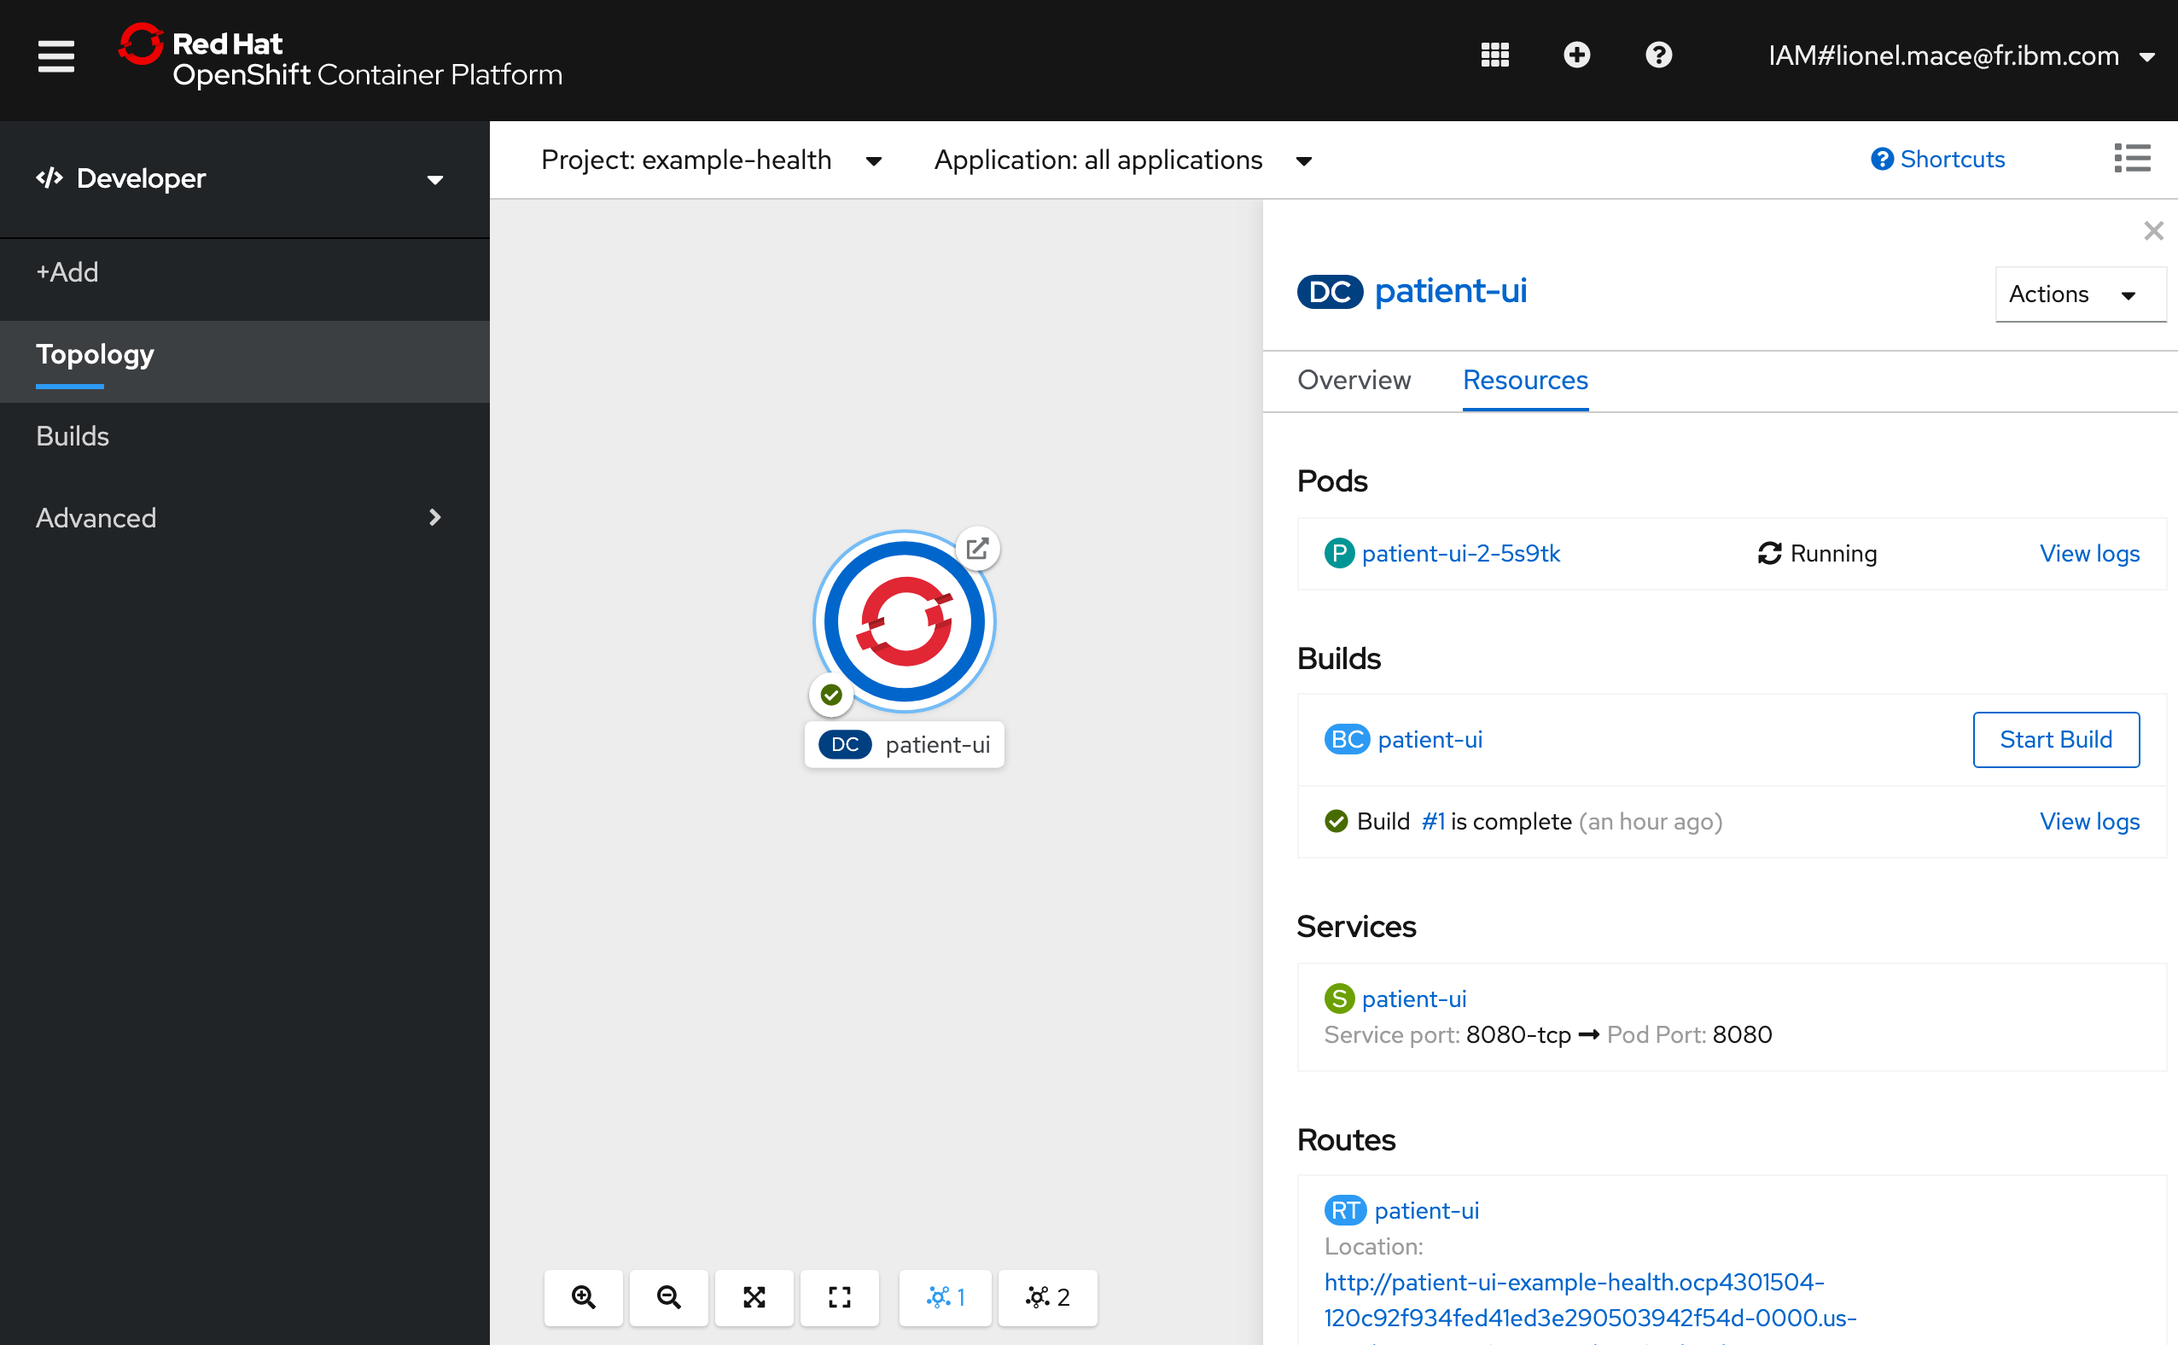
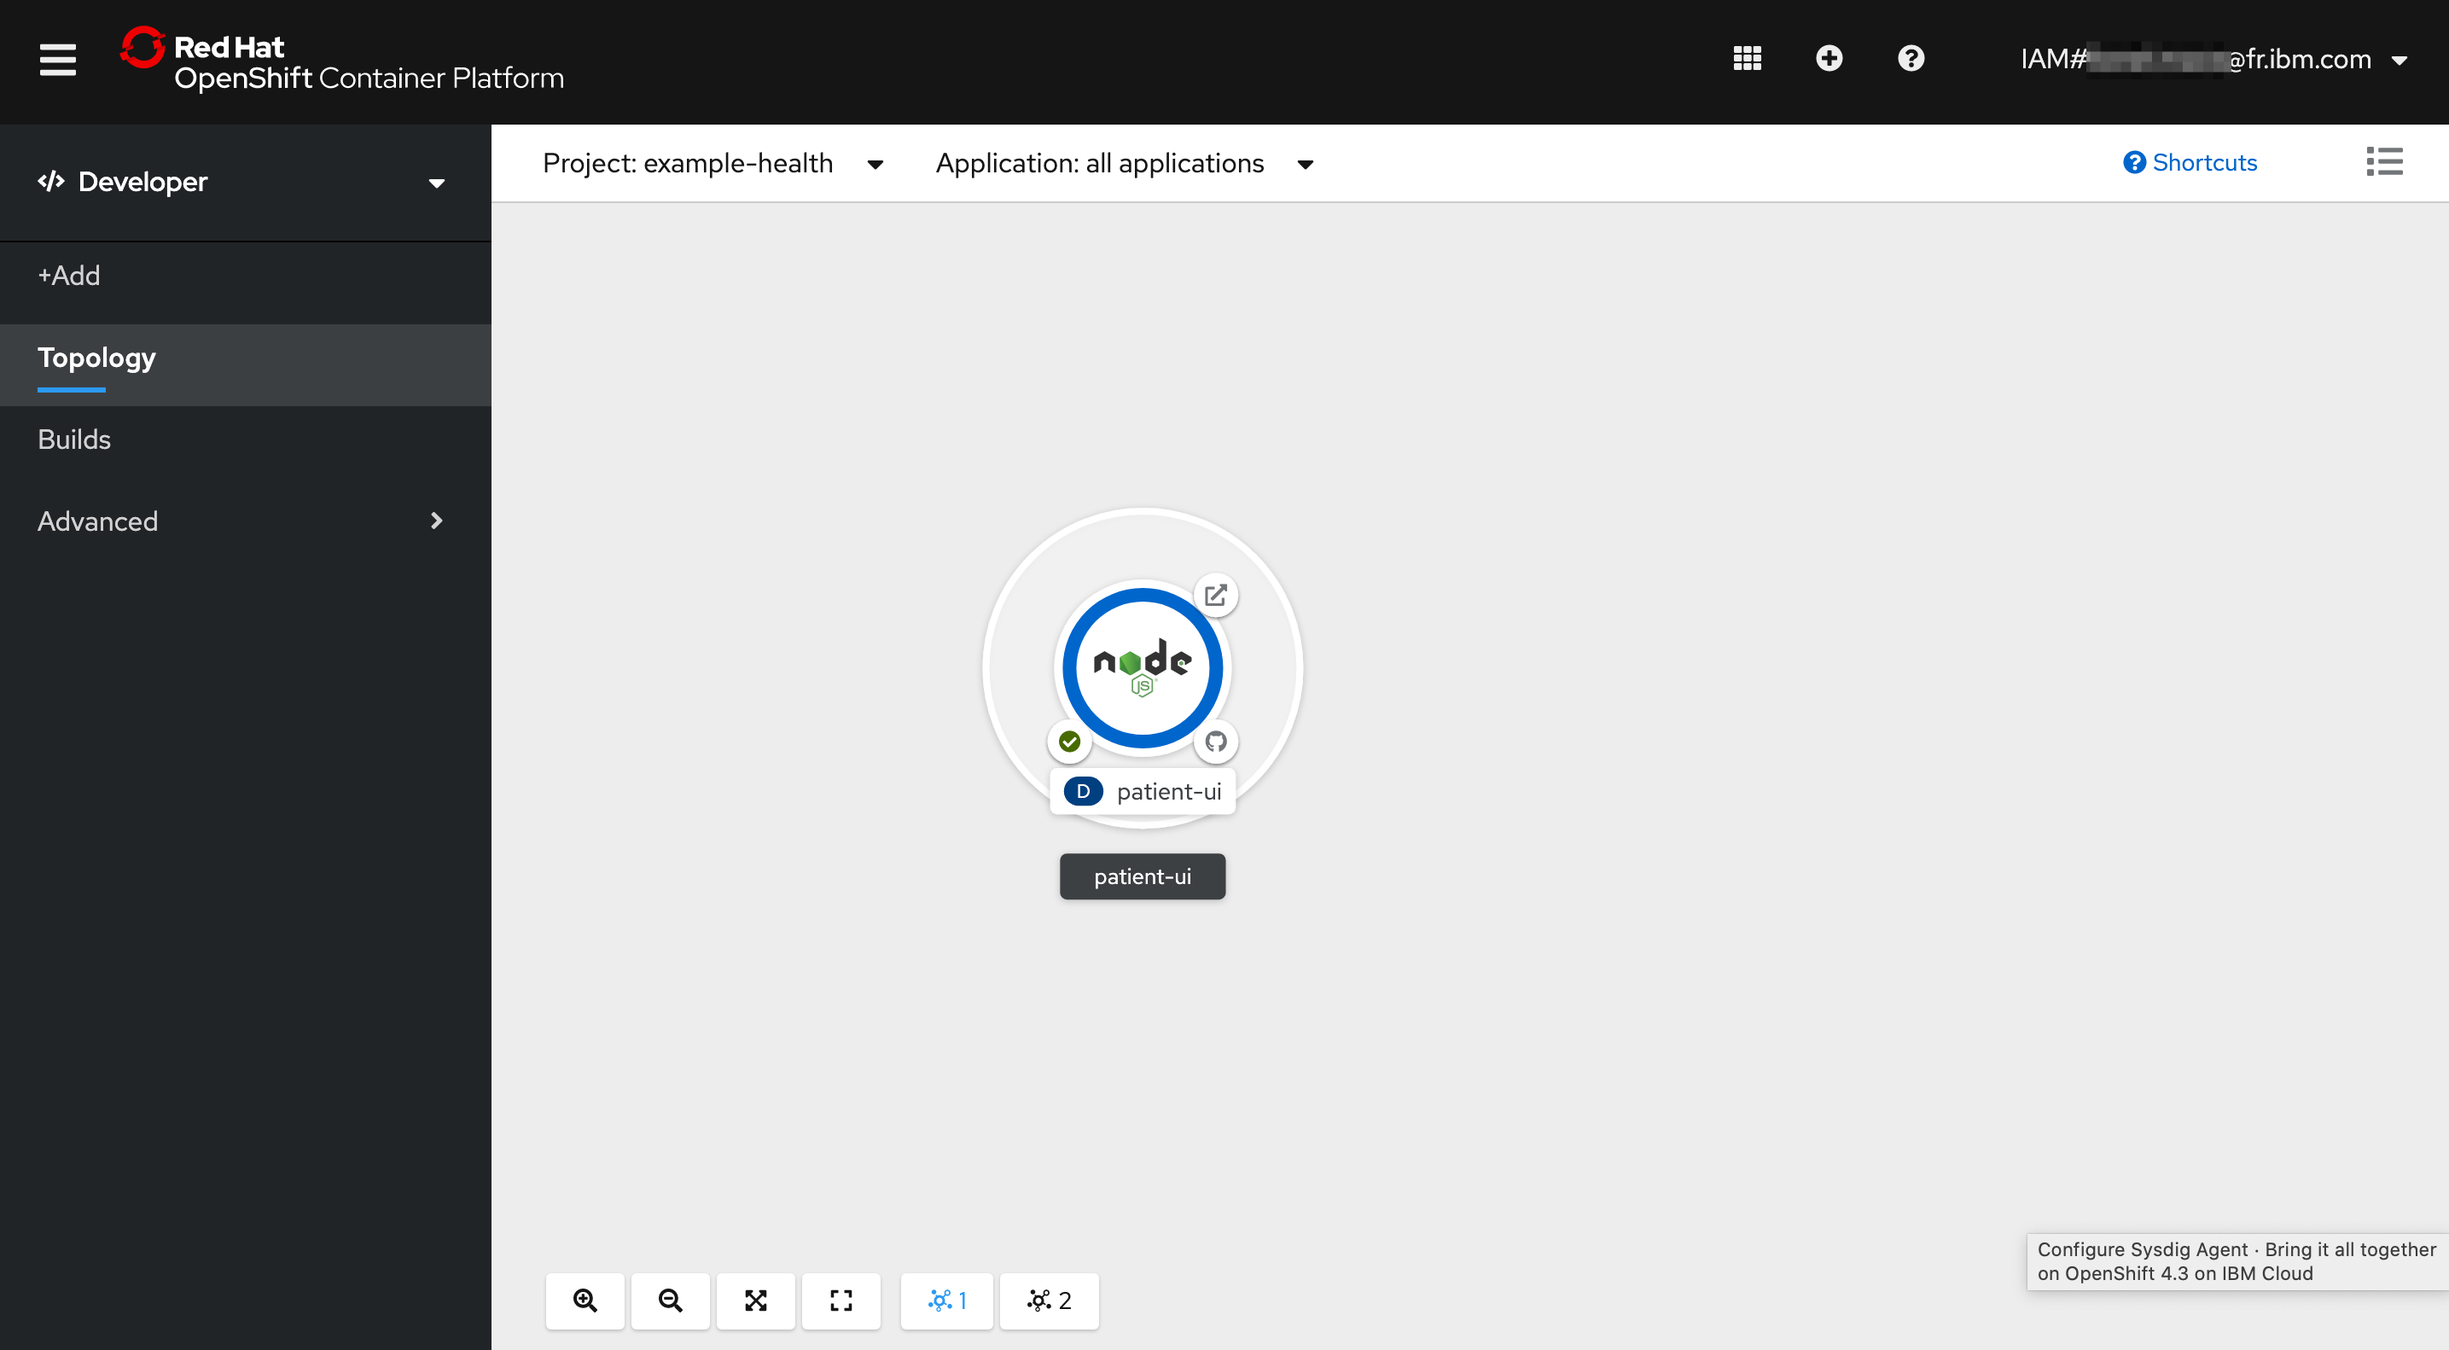
exercise 1 with ui

diff --git a/workshop/part1-learn_openshift/exercise-1.md b/workshop/part1-learn_openshift/exercise-1.md
@@ -1,118 +1,46 @@
-# Deploying an application
+# Exercise 1: Deploying an application
 
-## Deploy Example Health into OpenShift
+In this exercise, you'll deploy a simple Node.js Express application - "Example Health". Example Health is a simple UI for a patient health records system. We'll use this example to demonstrate key OpenShift features throughout this workshop. You can find the sample application GitHub repository here: [https://github.com/svennam92/node-s2i](https://github.com/svennam92/node-s2i)
 
-There's many ways to create a new application in OpenShift. If you're already a Kubernetes expert, you can stick with what you know and use YAML deployment files. However, OpenShift has greatly simplified the process of deploying apps into a cluster. 
+## Deploy Example Health
 
-Today, we'll demonstrate the "s2i" or "source to image" builder. This builder allows you to go from source code on GitHub to a running deployment.
+1. Launch the `OpenShift web console`.
 
-1. Create a new project **example-health**:
+    ![](../assets/ocp-console.png)
 
-   ```sh
-    oc new-project example-health
-   ```
+2. **Create** a project, you can title it whatever you like, we suggest "example-health."
 
-   Output:
+    ![](../assets/ocp-create-project.png)
 
-   ```
-    Now using project "example-health" on server "https://c100-e.containers.cloud.ibm.com:32545".
+3. Make sure your project is selected. You should see a view that looks like this:
 
-    You can add applications to this project with the 'new-app' command. For example, try:
+    ![](../assets/ocp-project-view.png)
 
-        oc new-app django-psql-example
+4. Click **From Git**.
 
-    to build a new example application in Python. Or use kubectl to deploy a simple Kubernetes application:
+5. Enter the repository `https://github.com/svennam92/node-s2i` in the Git Repo URL field.
 
-        kubectl create deployment hello-node --image=gcr.io/hello-minikube-zero-install/hello-node
-   ```
+    ![](../assets/ocp-configure-git.png)
 
-2. Next, deploy the application directly from GitHub into your cluster. This uses the OpenShift "s2i" or "source to image" strategy. Essentially, this build strategy combines a standard Node.js runtime \(a base image\) with your source code in GitHub. Our code needs a runtime to actually run -- the base image takes care of this. The base image exists on DockerHub, named `nodejs-10-centos7:latest`.
-   * Run the following command to build the Docker image. Note the `~` separator between the base image and source repository. The `--context-dir` flag is used to define the folder where the app exists:
+6. Note that the builder image automatically detected the language Node.js.
 
-     ```sh
-       oc new-app --name=patient-ui centos/nodejs-10-centos7~https://github.com/svennam92/node-s2i-openshift --context-dir='site'
-     ```
+    ![](../assets/ocp-build-image.png)
 
-     Output:
+7. Name your application such as `patient-ui`. Keep the default options and click **Create** at the bottom of the window to build and deploy the application.
 
-     ```
-       --> Found Docker image 4028fd4 (3 weeks old) from Docker Hub for "centos/nodejs-10-centos7"
+    ![](../assets/ocp-app-name.png)
 
-           Node.js 10 
-           ---------- 
-           Node.js 10 available as container is a base platform for building and running various Node.js 10 applications and frameworks. Node.js is a platform built on Chrome's JavaScript runtime for easily building fast, scalable network applications. Node.js uses an event-driven, non-blocking I/O model that makes it lightweight and efficient, perfect for data-intensive real-time applications that run across distributed devices.
+    Your application is being deployed.
 
-           Tags: builder, nodejs, nodejs10
+## View the Example Health
 
-           * An image stream tag will be created as "nodejs-10-centos7:latest" that will track the source image
-           * A source build using source code from https://github.com/IBM/node-s2i-openshift will be created
-           * The resulting image will be pushed to image stream tag "patient-ui:latest"
-           * Every time "nodejs-10-centos7:latest" changes a new build will be triggered
-           * This image will be deployed in deployment config "patient-ui"
-           * Port 8080/tcp will be load balanced by service "patient-ui"
-           * Other containers can access this service through the hostname "patient-ui"
+1. You should see the app you just deployed.
 
-       --> Creating resources ...
-           imagestream.image.openshift.io "patient-ui" created
-           buildconfig.build.openshift.io "patient-ui" created
-           deploymentconfig.apps.openshift.io "patient-ui" created
-           service "patient-ui" created
-       --> Success
-           Build scheduled, use 'oc logs -f bc/patient-ui' to track its progress.
-           Application is not exposed. You can expose services to the outside world by executing one or more of the commands below:
-           'oc expose svc/patient-ui' 
-           Run 'oc status' to view your app.
-     ```
+    ![](../assets/ocp43-topology.png)
 
-   * This command created an ImageStream, Deployment, a Pod, and a Service resource for the `Example-Health` app,
+2. Select the app. You should see a single Deployment where you can see your Pods, Builds, Services and Routes.
 
-3. Reading the output, you'll notice that although a deployment and service is created, your application is not yet "exposed" to the outside world. To do so, run the following command:
-
-   ```sh
-    oc expose svc/patient-ui
-   ```
-
-   Output:
-
-   ```
-    route.route.openshift.io/patient-ui exposed
-   ```
-
-4. Make sure everything started up correctly. This might take a couple minutes -- look for the `deployed` status. You can also launch the dashboard and track it there.
-
-   > To find the OpenShift dashboard URL again, run: `ic ks cluster get <cluster_name>` and look for `Public Service Endpoint URL`
-
-   ```sh
-    oc status
-   ```
-
-   Output:
-
-   ```
-    In project example-health on server https://c100-e.containers.cloud.ibm.com:32545
-
-    http://patient-ui-example-health.<your_openshift_cluster>.us-south.stg.containers.appdomain.cloud to pod port 8080-tcp (svc/patient-ui)
-    dc/patient-ui deploys istag/patient-ui:latest <-
-        bc/patient-ui source builds https://github.com/ibm/patient-ui on istag/nodejs-10-centos7:latest 
-        deployment #1 deployed 21 minutes ago - 1 pod
-   ```
-
-5. Start streaming the logs to see the build progress
-    ```
-    oc logs -f bc/patient-ui
-    ```
-
-## View the Example Health in the OpenShift console
-
-1. In the OpenShift Web console, switch from **Administrator** to **Developer** view and navigate to **Topology**. Select your project
-
-    ![Topology Deployment Config](../assets/ocp-project.png)
-
-2. You should see the app you just deployed.
-
-    ![Topology Deployment Config](../assets/ocp43-topology.png)
-
-3. Select the app. You should see a single deployment config where you can see your Pods, Builds, Services and Routes.
+    ![](../assets/ocp43-topology-details.png)
 
     * **Pods**: Your Node.js application containers
     * **Builds**: The auto-generated build that created a Docker image from your Node.js source code, deployed it to the OpenShift container registry, and kicked off your deployment config.
@@ -127,6 +55,10 @@ Today, we'll demonstrate the "s2i" or "source to image" builder. This builder al
 
     ![](../assets/patient-ui-web.png)
 
+    You can enter any strings for username and password, for instance `test:test` because the app is running in demo mode.
+
+Congrats! You've deployed a `Node.js` app to OpenShift Container Platform.
+
 You've completed the first exercise! Let's recap -- in this exercise, you:
 
 * Deployed the "Example Health" Node.js application directly from GitHub into your cluster 
@@ -138,4 +70,3 @@ You've completed the first exercise! Let's recap -- in this exercise, you:
 ## What's Next?
 
 Let's dive into some Day 1 OpenShift Operations tasks, starting with Monitoring and Logging
-

diff --git a/workshop/backup/exercise-1-s2i-backup.md b/workshop/backup/exercise-1-s2i-backup.md
@@ -1,0 +1,141 @@
+# Deploying an application
+
+## Deploy Example Health into OpenShift
+
+There's many ways to create a new application in OpenShift. If you're already a Kubernetes expert, you can stick with what you know and use YAML deployment files. However, OpenShift has greatly simplified the process of deploying apps into a cluster. 
+
+Today, we'll demonstrate the "s2i" or "source to image" builder. This builder allows you to go from source code on GitHub to a running deployment.
+
+1. Create a new project **example-health**:
+
+   ```sh
+    oc new-project example-health
+   ```
+
+   Output:
+
+   ```
+    Now using project "example-health" on server "https://c100-e.containers.cloud.ibm.com:32545".
+
+    You can add applications to this project with the 'new-app' command. For example, try:
+
+        oc new-app django-psql-example
+
+    to build a new example application in Python. Or use kubectl to deploy a simple Kubernetes application:
+
+        kubectl create deployment hello-node --image=gcr.io/hello-minikube-zero-install/hello-node
+   ```
+
+2. Next, deploy the application directly from GitHub into your cluster. This uses the OpenShift "s2i" or "source to image" strategy. Essentially, this build strategy combines a standard Node.js runtime \(a base image\) with your source code in GitHub. Our code needs a runtime to actually run -- the base image takes care of this. The base image exists on DockerHub, named `nodejs-10-centos7:latest`.
+   * Run the following command to build the Docker image. Note the `~` separator between the base image and source repository. The `--context-dir` flag is used to define the folder where the app exists:
+
+     ```sh
+       oc new-app --name=patient-ui centos/nodejs-10-centos7~https://github.com/svennam92/node-s2i-openshift --context-dir='site'
+     ```
+
+     Output:
+
+     ```
+       --> Found Docker image 4028fd4 (3 weeks old) from Docker Hub for "centos/nodejs-10-centos7"
+
+           Node.js 10 
+           ---------- 
+           Node.js 10 available as container is a base platform for building and running various Node.js 10 applications and frameworks. Node.js is a platform built on Chrome's JavaScript runtime for easily building fast, scalable network applications. Node.js uses an event-driven, non-blocking I/O model that makes it lightweight and efficient, perfect for data-intensive real-time applications that run across distributed devices.
+
+           Tags: builder, nodejs, nodejs10
+
+           * An image stream tag will be created as "nodejs-10-centos7:latest" that will track the source image
+           * A source build using source code from https://github.com/IBM/node-s2i-openshift will be created
+           * The resulting image will be pushed to image stream tag "patient-ui:latest"
+           * Every time "nodejs-10-centos7:latest" changes a new build will be triggered
+           * This image will be deployed in deployment config "patient-ui"
+           * Port 8080/tcp will be load balanced by service "patient-ui"
+           * Other containers can access this service through the hostname "patient-ui"
+
+       --> Creating resources ...
+           imagestream.image.openshift.io "patient-ui" created
+           buildconfig.build.openshift.io "patient-ui" created
+           deploymentconfig.apps.openshift.io "patient-ui" created
+           service "patient-ui" created
+       --> Success
+           Build scheduled, use 'oc logs -f bc/patient-ui' to track its progress.
+           Application is not exposed. You can expose services to the outside world by executing one or more of the commands below:
+           'oc expose svc/patient-ui' 
+           Run 'oc status' to view your app.
+     ```
+
+   * This command created an ImageStream, Deployment, a Pod, and a Service resource for the `Example-Health` app,
+
+3. Reading the output, you'll notice that although a deployment and service is created, your application is not yet "exposed" to the outside world. To do so, run the following command:
+
+   ```sh
+    oc expose svc/patient-ui
+   ```
+
+   Output:
+
+   ```
+    route.route.openshift.io/patient-ui exposed
+   ```
+
+4. Make sure everything started up correctly. This might take a couple minutes -- look for the `deployed` status. You can also launch the dashboard and track it there.
+
+   > To find the OpenShift dashboard URL again, run: `ic ks cluster get <cluster_name>` and look for `Public Service Endpoint URL`
+
+   ```sh
+    oc status
+   ```
+
+   Output:
+
+   ```
+    In project example-health on server https://c100-e.containers.cloud.ibm.com:32545
+
+    http://patient-ui-example-health.<your_openshift_cluster>.us-south.stg.containers.appdomain.cloud to pod port 8080-tcp (svc/patient-ui)
+    dc/patient-ui deploys istag/patient-ui:latest <-
+        bc/patient-ui source builds https://github.com/ibm/patient-ui on istag/nodejs-10-centos7:latest 
+        deployment #1 deployed 21 minutes ago - 1 pod
+   ```
+
+5. Start streaming the logs to see the build progress
+    ```
+    oc logs -f bc/patient-ui
+    ```
+
+## View the Example Health in the OpenShift console
+
+1. In the OpenShift Web console, switch from **Administrator** to **Developer** view and navigate to **Topology**. Select your project
+
+    ![Topology Deployment Config](../assets/ocp-project.png)
+
+2. You should see the app you just deployed.
+
+    ![Topology Deployment Config](../assets/ocp43-topology.png)
+
+3. Select the app. You should see a single deployment config where you can see your Pods, Builds, Services and Routes.
+
+    * **Pods**: Your Node.js application containers
+    * **Builds**: The auto-generated build that created a Docker image from your Node.js source code, deployed it to the OpenShift container registry, and kicked off your deployment config.
+    * **Services**: Tells OpenShift how to access your Pods by grouping them together as a service and defining the port to listen to
+    * **Routes**: Exposes your services to the outside world using the LoadBalancer provided by the IBM Cloud network
+
+4. Click on **View Logs** next to your completed Build. This shows you the process that OpenShift took to install the dependencies for your Node.js application and build/push a Docker image.
+
+    ![Build Logs](../assets/ocp43-build-logs.png)
+
+5. Click back to the **Topology** and select your app again. Click on the url under **Routes** to open your application with the URL.
+
+    ![](../assets/patient-ui-web.png)
+
+You've completed the first exercise! Let's recap -- in this exercise, you:
+
+* Deployed the "Example Health" Node.js application directly from GitHub into your cluster 
+  * Used the "Source to Image" strategy provided by OpenShift
+* Deployed an end-to-end development pipeline 
+  * New commits that happen in GitHub can be pushed to your cluster with a simple \(re\)build
+* Looked at your app in the OpenShift console.
+
+## What's Next?
+
+Let's dive into some Day 1 OpenShift Operations tasks, starting with Monitoring and Logging
+

diff --git a/workshop/getting-started/get_started.md b/workshop/getting-started/get_started.md
@@ -34,7 +34,7 @@ OR
 
 6. You can also see your cluster in the list of OpenShift clusters [IBM Cloud Clusters Dashboard](https://cloud.ibm.com/kubernetes/clusters?platformType=openshift)
 
-    ![Clusters Dashboard](../assets/clusters-dashboard.png)
+    ![Clusters Dashboard](../assets/cluster-dashboard.png)
 
 7. Have a look at the cluster overview!
 
